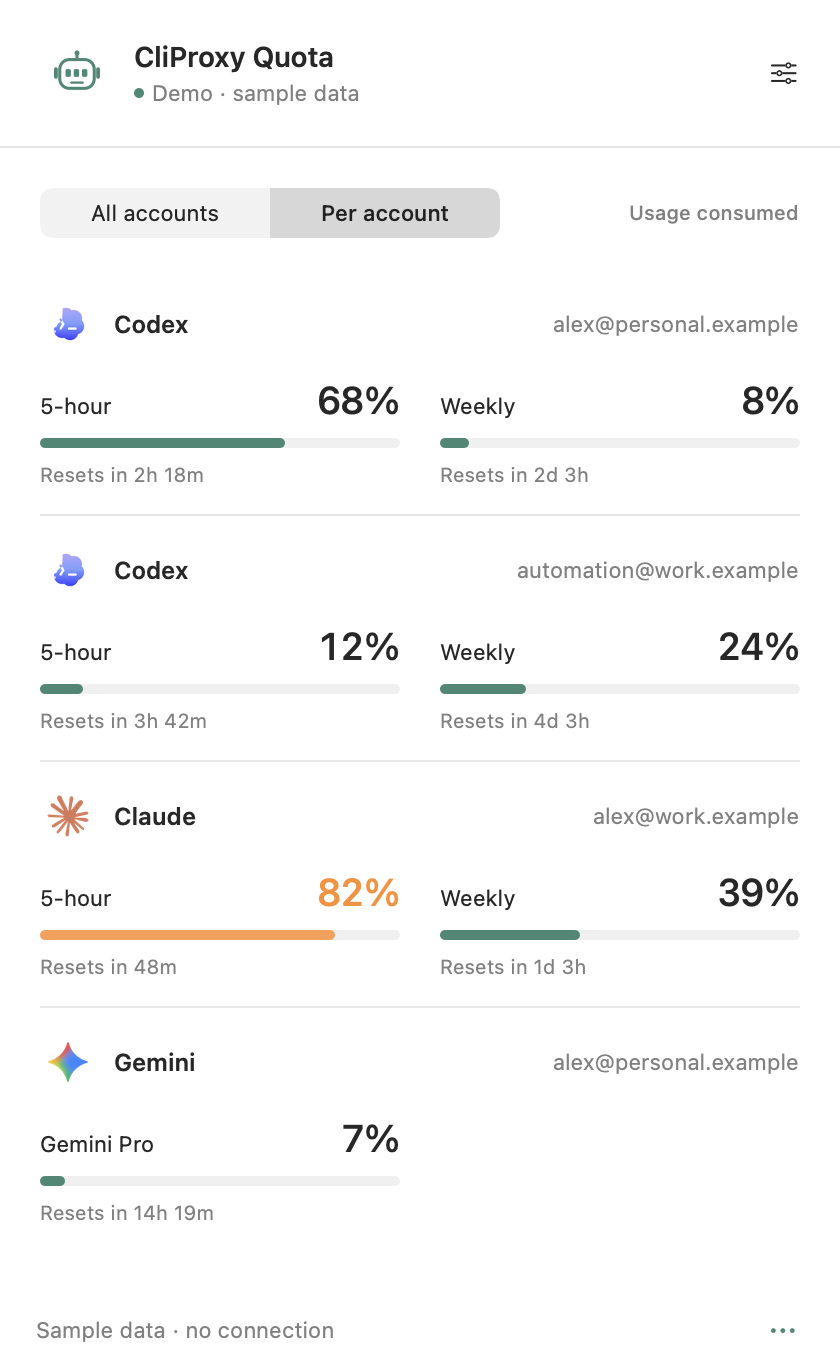
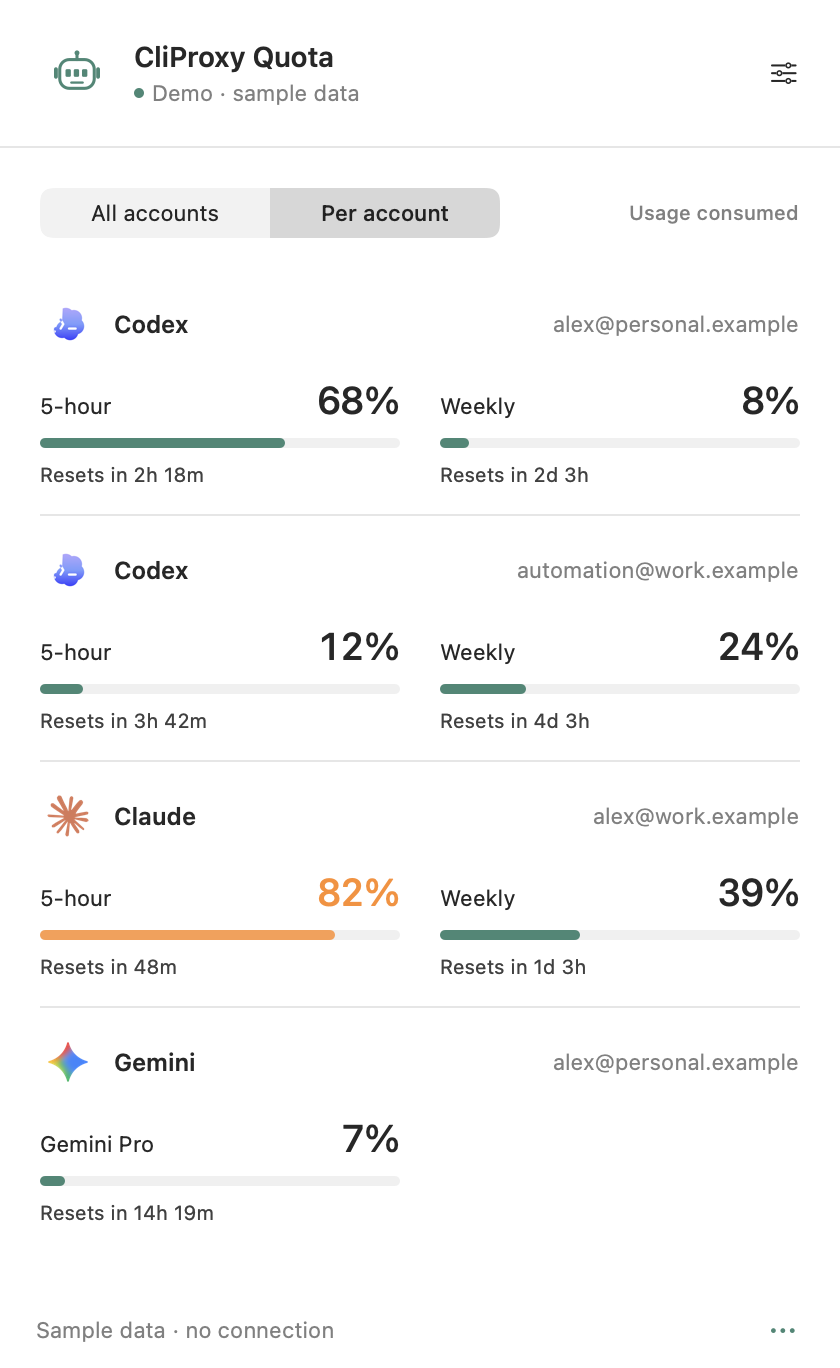
Open Claude billing from per-account email addresses

diff --git a/Sources/CliProxyQuota/Views.swift b/Sources/CliProxyQuota/Views.swift
@@ -131,7 +131,15 @@ struct QuotaPopover: View {
                         ProviderIcon(provider: q.account.provider)
                         Text(q.account.providerName).font(.system(size: 12, weight: .semibold))
                         Spacer(minLength: 8)
-                        Text(q.account.email).font(.system(size: 11)).foregroundStyle(.secondary)
+                        Group {
+                            if ProviderIdentity.canonicalKey(q.account.provider) == "claude" {
+                                Link(destination: URL(string: "https://claude.ai/settings/billing")!) {
+                                    Text(q.account.email)
+                                }.buttonStyle(.plain)
+                                    .help("Manage Claude plan. Opens billing for the account signed in to your browser; check that it matches this email.")
+                                    .accessibilityLabel("Manage Claude plan for \(q.account.email) in your browser")
+                            } else { Text(q.account.email) }
+                        }.font(.system(size: 11)).foregroundStyle(.secondary)
                             .lineLimit(1).truncationMode(.middle)
                     }
                     if let issue = q.issue {

diff --git a/README.md b/README.md
@@ -18,7 +18,7 @@ A small, native macOS app for [CLIProxyAPI](https://github.com/router-for-me/CLI
 
 - **Remaining usage**, with progress bars and reset countdowns for every reported limit. Hover over a countdown to see its full reset date and time in your local timezone.
 - **All accounts** groups matching provider quotas and shows their average in the selected percentage mode.
-- **Per account** shows individual windows, including weekly and model-specific limits.
+- **Per account** shows individual windows, including weekly and model-specific limits. Click a Claude account’s email to open Claude billing in your browser. The link uses the account already signed in to your browser; check that it matches the email shown.
 - **Fits your screen**: both views grow to show all content, scrolling only when the popover would exceed the available display height.
 - **Remaining or Used**: one preference updates percentages and bars in both quota views and the menu bar.
 - **5-hour, Weekly, or Both** in the menu bar. Single limits show `72%`; Both shows `⁵ʰ 72% · ʷ 84%`.
